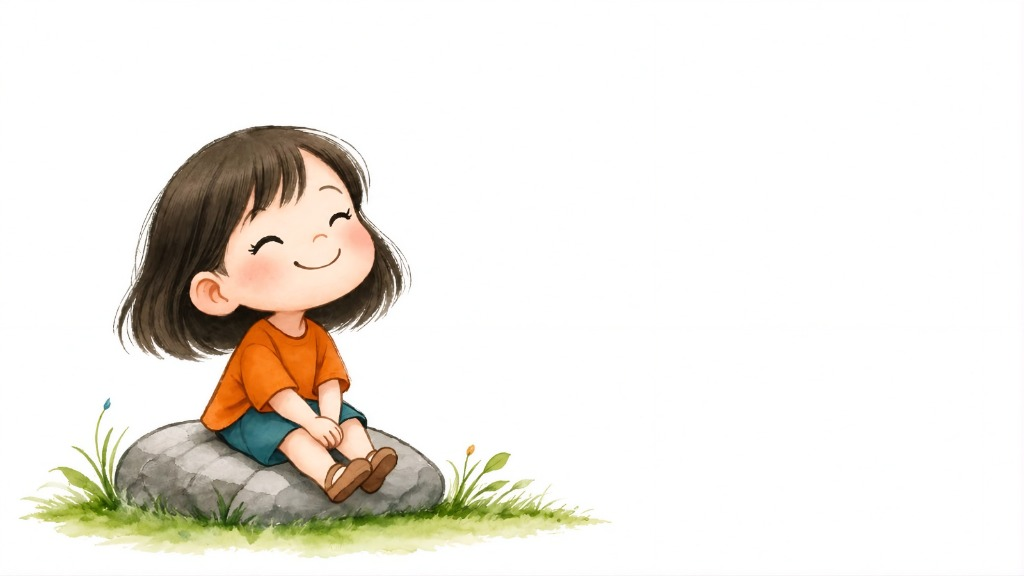
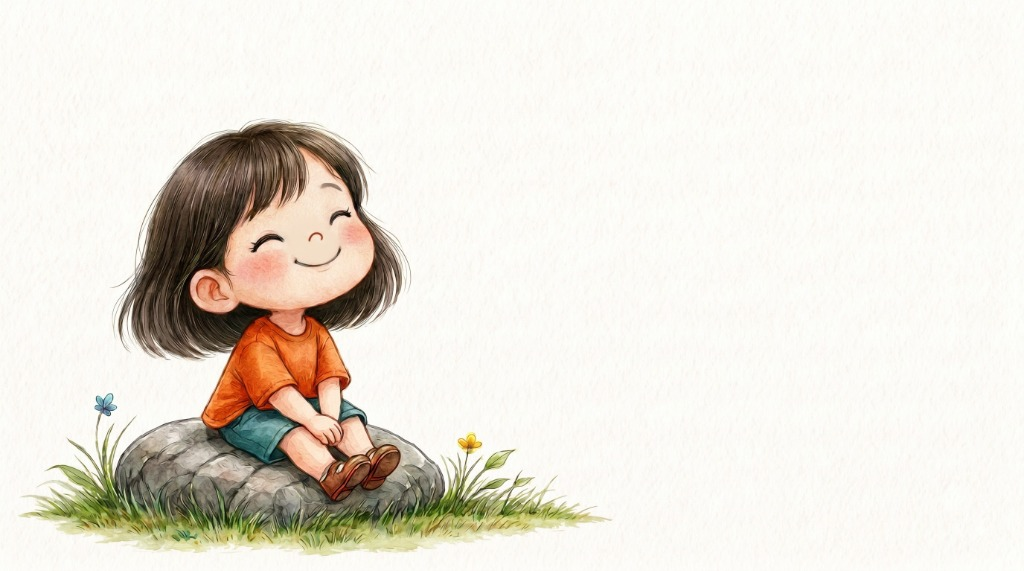
Update About Me image with latest watercolor texture girl illustration

Changed region(s): [[0.0, 0.2084, 0.5938, 0.9825]]

diff --git a/index.html b/index.html
@@ -13,7 +13,7 @@
         href="https://fonts.googleapis.com/css2?family=Almendra:ital,wght@0,400;0,700;1,400;1,700&family=Cinzel+Decorative:wght@700;900&family=Cormorant+Garamond:ital,wght@0,500;0,600;0,700;1,500;1,600&family=Fondamento:ital@0;1&family=Outfit:wght@800;900&family=Playfair+Display:ital,wght@0,600;0,700;0,800;1,600;1,700&family=Plus+Jakarta+Sans:ital,wght@0,300..900;1,300..900&family=Space+Grotesk:wght@400;500;600;700;800&family=Caveat:wght@600;700&display=swap"
         rel="stylesheet">
 
-    <link rel="stylesheet" href="css/styles.css?v=20260911_v10">
+    <link rel="stylesheet" href="css/styles.css?v=20260911_v11">
 </head>
 
 <body>
@@ -84,7 +84,7 @@
         <!-- Chapter: About Me (Girl Sitting on Rock Illustration Spread) -->
         <section id="about" class="story-chapter about-storybook-section">
             <div class="about-backdrop-art">
-                <img src="assets/images/about_storybook_bg.png?v=20260911_girl_rock_v3" alt="Watercolor girl sitting on rock illustration" class="about-full-art-img">
+                <img src="assets/images/about_storybook_bg.png?v=20260911_girl_rock_v4" alt="Watercolor girl sitting on rock illustration" class="about-full-art-img">
             </div>
             
             <div class="about-content-overlay">

diff --git a/css/styles.css b/css/styles.css
@@ -209,7 +209,7 @@ a, button, [role="button"], input, select, textarea, .project-column-item, .proj
     justify-content: flex-end;
     position: relative;
     z-index: 2;
-    background-color: #FFFFFF;
+    background-color: #FDFBF7;
     padding: 4rem 0;
     overflow: hidden;
 }
@@ -234,6 +234,7 @@ a, button, [role="button"], input, select, textarea, .project-column-item, .proj
     object-fit: contain;
     object-position: left center;
     display: block;
+    mix-blend-mode: multiply;
     will-change: transform, opacity;
 }
 
